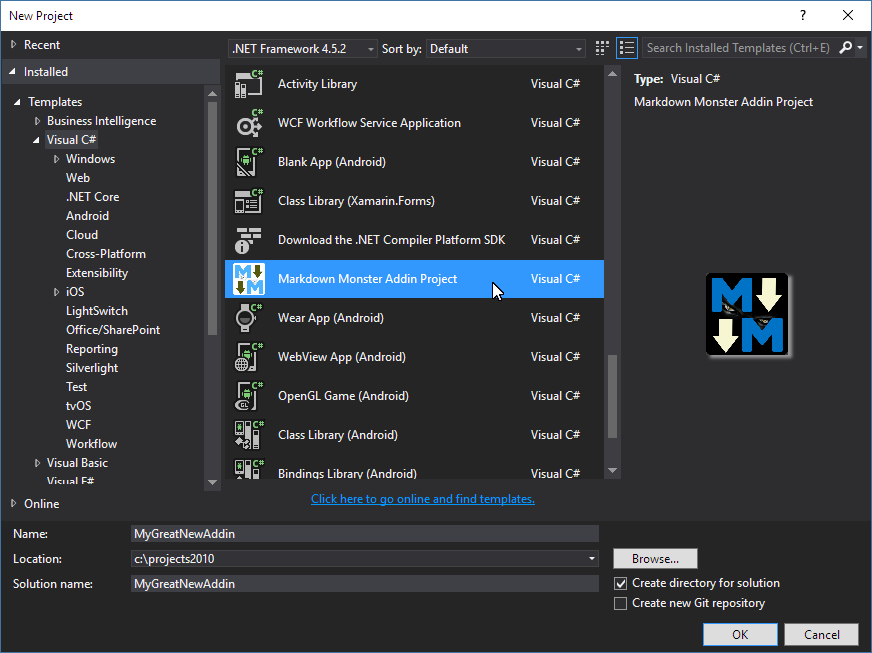
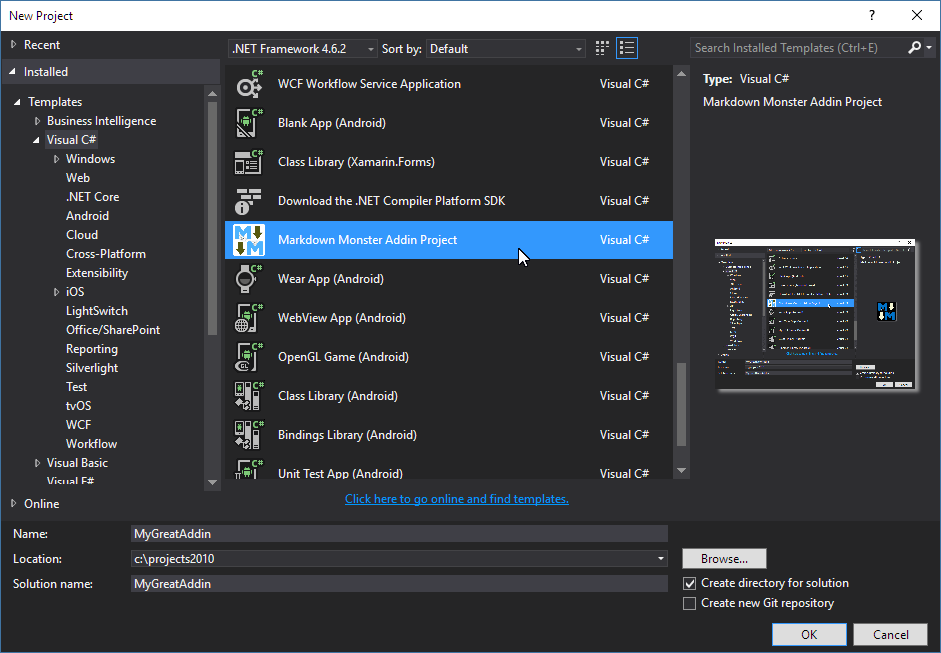
Update documentation and update preview image for Gallery

diff --git a/Readme.md b/Readme.md
@@ -9,6 +9,10 @@ This project contains the code for a Visual Studio project template to create a 
 
 You can install the VSIX template from within the [Visual Studio Extension Manager] (https://marketplace.visualstudio.com/vsgallery/231f13cc-2348-432c-a69f-82e7b725587e), or from the [VSIX template from this project](https://github.com/RickStrahl/MarkdownMonsterAddinProjectTemplate/raw/master/MarkdownMonsterAddinProjectTemplate.vsix).
 
+
+> #### @icon-warning Requires .NET 4.6.2
+> Markdown Monster Addins have to be built against .NET 4.6.2 as that is the base version that Markdown Monster is built against. The dependencies in the addin project require the same runtime level in order to bind to the host assembly.
+
 ### Additional Resources
 * [Creating a Markdown Monster Addin](http://markdownmonster.west-wind.com/docs/_4ne0s0qoi.htm)
 * [Markdown Monster](https://github.com/rickstrahl/MarkdownMonster)
